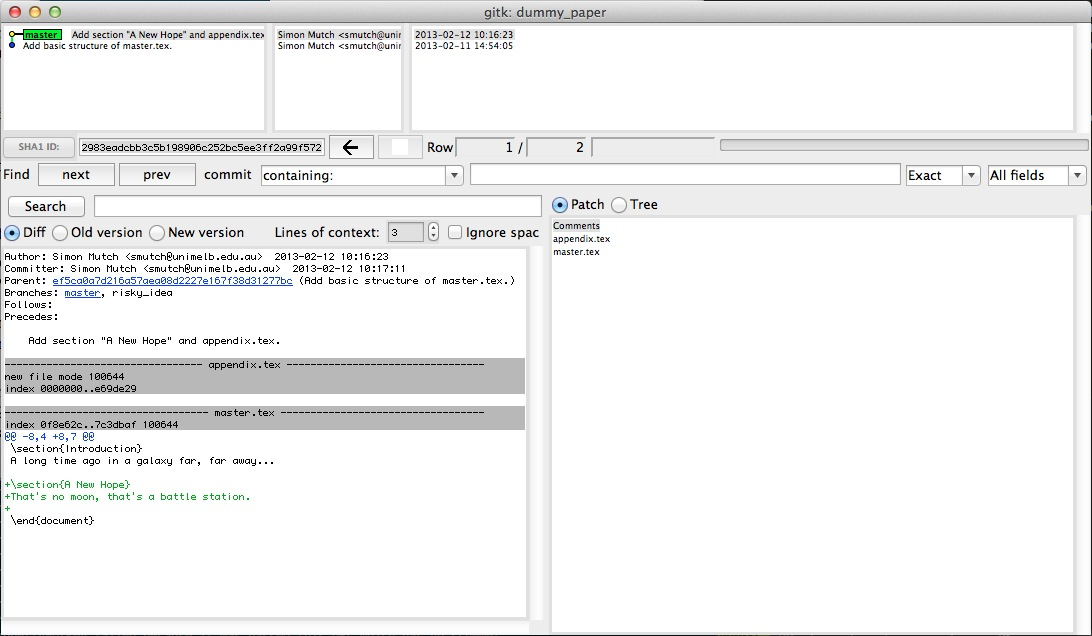
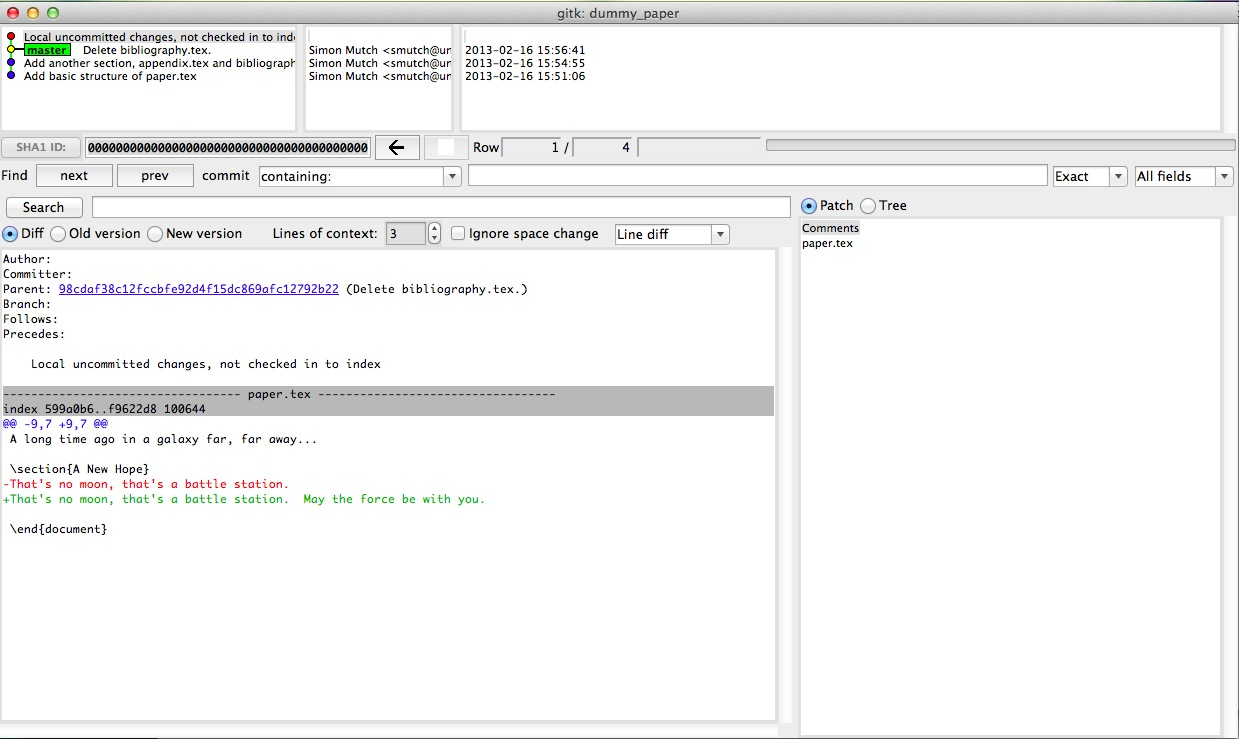
Change from master.tex to paper.tex in examples.

Changed region(s): [[0.0, 0.0, 1.0, 1.0], [0.1245, 0.717, 0.1557, 0.7469]]

diff --git a/source/pages/4-merging.rst b/source/pages/4-merging.rst
@@ -21,7 +21,7 @@ First we checkout the ``master`` branch::
 
 If you run ``git log`` you should see that none of your commits to the
 ``risky_idea`` branch are present.  You can further confirm this by looking at
-the contents of ``master.tex``; The section "The Empire Strikes Back" shouldn't
+the contents of ``paper.tex``; The section "The Empire Strikes Back" shouldn't
 be present.
 
 Now merge ``risky_idea`` into our current branch using the following command::
@@ -63,7 +63,7 @@ First create a new branch called ``episode5`` and check it out::
 
 .. highlight:: latex
 
-Then add another section to ``master.tex`` with the following::
+Then add another section to ``paper.tex`` with the following::
 
     \section{Revenge of the Jedi}
     That blast came from the Death Star! That thing's operational!
@@ -72,7 +72,7 @@ Then add another section to ``master.tex`` with the following::
 
 Commit your changes::
 
-    % git add master.tex
+    % git add paper.tex
     % git commit
 
 Now we have a new branch with a new commit that adds a section to our paper.
@@ -90,17 +90,26 @@ First checkout ``master``::
 
 .. highlight:: latex
 
-Then edit ``master.tex``, this time with the text::
+Then edit ``paper.tex``, this time with the text::
 
     \section{Return of the Jedi}
     That blast came from the Death Star! That thing's operational!
 
 .. highlight:: console
 
-Again, commit your changes::
+Again, stage and commit your changes::
 
-    % git add master.tex
-    % git commit
+    % git commit -a
+
+.. note::
+
+    Note that we used ``git commit -a`` here to stage and commit our changes in
+    one go.  This is a very useful shortcut.  However, it will only stage
+    changes in files which are already being tracked by the repository.  i.e. if
+    you add a new file to your project, you will still need to run ``git add``
+    for Git to start tracking it.  Additionally, it will stage **all** changes,
+    so you have less control over what changes go into each commit.
+
 
 Now our two branches ``master`` and ``episode5`` have commits in them which
 directly conflict.  Running the merge command from the ``master`` branch will
@@ -110,15 +119,15 @@ flag this conflict and Git will ask us for help.  Try it now::
 
 and you should be presented with the following message::
 
-    Auto-merging master.tex
-    CONFLICT (content): Merge conflict in master.tex
+    Auto-merging paper.tex
+    CONFLICT (content): Merge conflict in paper.tex
     Automatic merge failed; fix conflicts and then commit the result.
 
 .. highlight:: latex
 
-This tells us that a conflict has occurred in ``master.tex``.  
+This tells us that a conflict has occurred in ``paper.tex``.  
 
-To resolve the conflict open up ``master.tex`` in your favorite editor.  The
+To resolve the conflict open up ``paper.tex`` in your favorite editor.  The
 offending section will look something like this::
 
     <<<<<<< HEAD
@@ -141,7 +150,7 @@ title from the ``master`` branch, and so we need to leave only that line::
 
 .. highlight:: console
 
-After you have edited and saved ``master.tex``, finish the merge by staging and
+After you have edited and saved ``paper.tex``, finish the merge by staging and
 committing your results::
 
     % git commit -a 
@@ -149,25 +158,17 @@ committing your results::
 The commit message will be auto-populated for you, and so there is no need to
 edit it.
 
-.. note::
-
-    Note that we used ``git commit -a`` here to stage and commit our changes in
-    one go.  This is a very useful shortcut.  However, it will only stage
-    changes in files which are already being tracked by the repository.  i.e. if
-    you add a new file to your project, you will still need to run ``git add``
-    for Git to start tracking it.
-
 
 Command summary
 ---------------
 
-+-------------------+---------------------------------------------------------+
-| Command           | Description                                             |
-+===================+=========================================================+
-| ``git merge``     | Merge branches and commits.                             |
-+-------------------+---------------------------------------------------------+
-| ``git branch -d`` | Delete a branch.                                        |
-+-------------------+---------------------------------------------------------+
-| ``git commit -a`` | Stage all changes in **tracked** files and commit them. |
-+-------------------+---------------------------------------------------------+
++-------------------+-------------------------------------------------------------+
+| Command           | Description                                                 |
++===================+=============================================================+
+| ``git merge``     | Merge branches and commits.                                 |
++-------------------+-------------------------------------------------------------+
+| ``git branch -d`` | Delete a branch.                                            |
++-------------------+-------------------------------------------------------------+
+| ``git commit -a`` | Stage **all** changes in **tracked** files and commit them. |
++-------------------+-------------------------------------------------------------+
 

diff --git a/source/pages/1-firststeps.rst b/source/pages/1-firststeps.rst
@@ -68,23 +68,11 @@ Adding files
 
 Now we have our fresh Git repository.  The next step is to start adding files!
 
-Use your editor of choice to start a LaTeX file named ``master.tex`` in your
-project directory (``dummy_paper``).
-
-.. note::
-
-    If your unsure what editor to use you can try ``nano`` for this simple
-    exercise::
-
-    % nano master.tex
-
-    To save and exit the file press ``Control-x``, then answer the question
-    with the ``y`` key, before finally accepting the filename presented by
-    hitting ``Enter``. 
-
 .. highlight:: latex
 
-Add the following to your file and save your changes::
+Use your editor of choice to start a LaTeX file named ``paper.tex`` in your
+project directory (``dummy_paper``).   Add the following to your file and save
+your changes::
 
     \documentclass{article}   
 
@@ -100,6 +88,17 @@ Add the following to your file and save your changes::
 
 .. highlight:: console
 
+.. .. note::
+
+..     If your unsure what editor to use you can try ``nano`` for this simple
+..     exercise:
+
+..     % nano paper.tex
+
+..     To save and exit the file press ``Control-x``, then answer the question
+..     with the ``y`` key, before finally accepting the filename presented by
+..     hitting ``Enter``. 
+
 Now let's check the status of our repository using the following command::
 
     % git status
@@ -113,16 +112,16 @@ You should see something similar to the following::
     # Untracked files:
     #   (use "git add <file>..." to include in what will be committed)
     #
-    #	master.tex
+    #	paper.tex
     nothing added to commit but untracked files present (use "git add" to track) 
 
-This tells us that ``master.tex`` currently falls under the category of
+This tells us that ``paper.tex`` currently falls under the category of
 "untracked" files.  In other words, Git is not tracking any changes we make to
 this file.
 
 In order to tell Git to start tracking our new file, use the following command::
 
-    % git add master.tex
+    % git add paper.tex
 
 
 
@@ -142,11 +141,11 @@ you should see something like the following::
     # Changes to be committed:
     #   (use "git rm --cached <file>..." to unstage)
     #
-    #	new file:   master.tex
+    #	new file:   paper.tex
     #
 
 This tells us that we have changes to our repository (here the creation of a new
-file called ``master.tex``) that need to be "committed".
+file called ``paper.tex``) that need to be "committed".
 
 Committing changes to the repository is the key step of version control.  This
 is where we save a snapshot of the current state of all tracked files.  To
@@ -158,7 +157,7 @@ This will bring up your favorite editor to allow you to provide a "commit
 message".  On the **first line** of the file write the following commit
 message::
 
-    Add basic structure of master.tex
+    Add basic structure of paper.tex
 
 then save and exit.
 
@@ -183,7 +182,7 @@ Staging modified files
 
 .. highlight:: latex
 
-Add another section to ``master.tex`` with the following::
+Add another section to ``paper.tex`` with the following::
 
     \section{A New Hope}
     That's no moon, that's a battle station.
@@ -197,19 +196,19 @@ If you now run ``git status``, you should see the following::
     #   (use "git add <file>..." to update what will be committed)
     #   (use "git checkout -- <file>..." to discard changes in working directory)
     #
-    #	modified:   master.tex
+    #	modified:   paper.tex
     #
     no changes added to commit (use "git add" and/or "git commit -a")
 
-What Git now tells us is that ``master.tex`` falls under the category of
+What Git now tells us is that ``paper.tex`` falls under the category of
 "Changes not staged for commit".  This means the file has changed since the last
 commit, however, we haven't told Git that we want to include these new changes
 in our next commit.  To do that, we must "stage" the file using ``git add``
 again::
 
-    % git add master.tex
+    % git add paper.tex
 
-A final check with ``git status`` should show that ``master.tex`` now falls
+A final check with ``git status`` should show that ``paper.tex`` now falls
 under the category of "Changes to be committed".
 
 .. _exercise-1a:
@@ -220,7 +219,7 @@ under the category of "Changes to be committed".
     put whatever you want in here (or just leave it empty), but don't forget to
     ``add`` it to your repository.
 
-    Go ahead and commit your staged changes to both ``master.tex`` and
+    Go ahead and commit your staged changes to both ``paper.tex`` and
     ``appendix.tex``.
 
 

diff --git a/source/pages/2-viewing.rst b/source/pages/2-viewing.rst
@@ -10,17 +10,23 @@ The command ``git log`` displays the commit history of the current branch.  If
 you try it in your ``dummy_paper`` directory you should see something like the
 following::
 
-    commit 2983eadcbb3c5b198906c252bc5ee3ff2a99f572
-    Author: G Lucas <glucas@jabbaspalace.edu.au>
-    Date:   Tue Feb 12 10:16:23 2013 +1100
+    commit 98cdaf38c12fccbfe92d4f15dc869afc12792b22
+    Author: Simon Mutch <smutch@unimelb.edu.au>
+    Date:   Sat Feb 16 15:56:41 2013 +1100
 
-        Add section "A New Hope" and appendix.tex.
+        Delete bibliography.tex.
 
-    commit ef5ca0a7d216a57aea08d2227e167f38d31277bc
-    Author: G Lucas <glucas@jabbaspalace.edu.au>
-    Date:   Mon Feb 11 14:54:05 2013 +1100
+    commit cc745dbfdf0421c7d84d72c75d3a52c517665fe7
+    Author: Simon Mutch <smutch@unimelb.edu.au>
+    Date:   Sat Feb 16 15:54:55 2013 +1100
 
-        Add basic structure of master.tex.
+        Add another section, appendix.tex and bibliography.tex.
+
+    commit f615b15149a633c47f690bf891e39cb80029a71b
+    Author: Simon Mutch <smutch@unimelb.edu.au>
+    Date:   Sat Feb 16 15:51:06 2013 +1100
+
+        Add basic structure of paper.tex
 
 As you can see ``git log`` provides the unique reference (SHA-1 checksum) for
 each commit, the author name and email address, as well as the date and commit
@@ -34,8 +40,9 @@ change what information is presented and how it looks.  For example, try typing:
 
 The result should be something like this::
 
-    * 2983ead Add section "A New Hope" and appendix.tex. <G Lucas>
-    * ef5ca0a Add basic structure of master.tex. <G Lucas> 
+    * 98cdaf3 Delete bibliography.tex. <Simon Mutch>
+    * cc745db Add another section, appendix.tex and bibliography.tex. <Simon Mutch>
+    * f615b15 Add basic structure of paper.tex <Simon Mutch>
 
 To investigate all the different options for formatting your log output, try
 looking at the help for the ``log`` command::
@@ -68,21 +75,21 @@ can get this reference using the ``git log`` command as outlined above.
 
 Once you run ``git diff`` successfully, you will see something like this::
 
-    diff --git a/appendix.tex b/appendix.tex
+    diff --git c/appendix.tex w/appendix.tex
     new file mode 100644
     index 0000000..e69de29
-    diff --git a/master.tex b/master.tex
-    index 0f8e62c..7c3dbaf 100644
-    --- a/master.tex
-    +++ b/master.tex
-    @@ -8,4 +8,7 @@
+    diff --git c/paper.tex w/paper.tex
+    index 3290236..599a0b6 100644
+    --- c/paper.tex
+    +++ w/paper.tex
+    @@ -8,5 +8,8 @@
      \section{Introduction}
      A long time ago in a galaxy far, far away...
      
     +\section{A New Hope}
     +That's no moon, that's a battle station.
     +
-     \end{document} 
+     \end{document}
 
 .. highlight:: console
 
@@ -106,7 +113,7 @@ since the last commit.  To do this simply run the command with no arguments.
 
 .. topic:: Exercise 2a
 
-    Add a sentence to the section "A New Hope" of ``master.tex`` but don't
+    Add a sentence to the section "A New Hope" of ``paper.tex`` but don't
     commit the change.  Now try running::
 
         % git diff
@@ -131,9 +138,9 @@ see in which commit each line was last changed.  Imagine that we identified a
 bug in a line of code.  We could then use this technique to see how long ago
 that bug was introduced (and by who!).  Try this::
 
-    % git blame master.tex --date=relative
+    % git blame paper.tex --date=relative
 
-and you should see a copy of ``master.tex`` with the reference, author and time
+and you should see a copy of ``paper.tex`` with the reference, author and time
 of the last commit where each line was modified.  
 
 

diff --git a/source/pages/5-collaboration.rst b/source/pages/5-collaboration.rst
@@ -74,6 +74,7 @@ The basic work-flow is almost always the same though:
   repository into your ``master`` branch.  This makes sure you are up-to-date
   with any changes which were made by someone else subsequent to when you last
   pulled (or made your original clone).
+- Merge your changes from your new branch into ``master``.
 - Once any conflicts are resolved you can update the central repository with your
   new code (using for example ``git push``).
 

diff --git a/source/pages/3-branches.rst b/source/pages/3-branches.rst
@@ -52,7 +52,7 @@ the original.
 
     .. highlight:: latex
 
-    Add another section to ``master.tex`` with the following::
+    Add another section to ``paper.tex`` with the following::
     
         \section{The Empire Strikes Back}
         Laugh it up fuzz-ball!...
